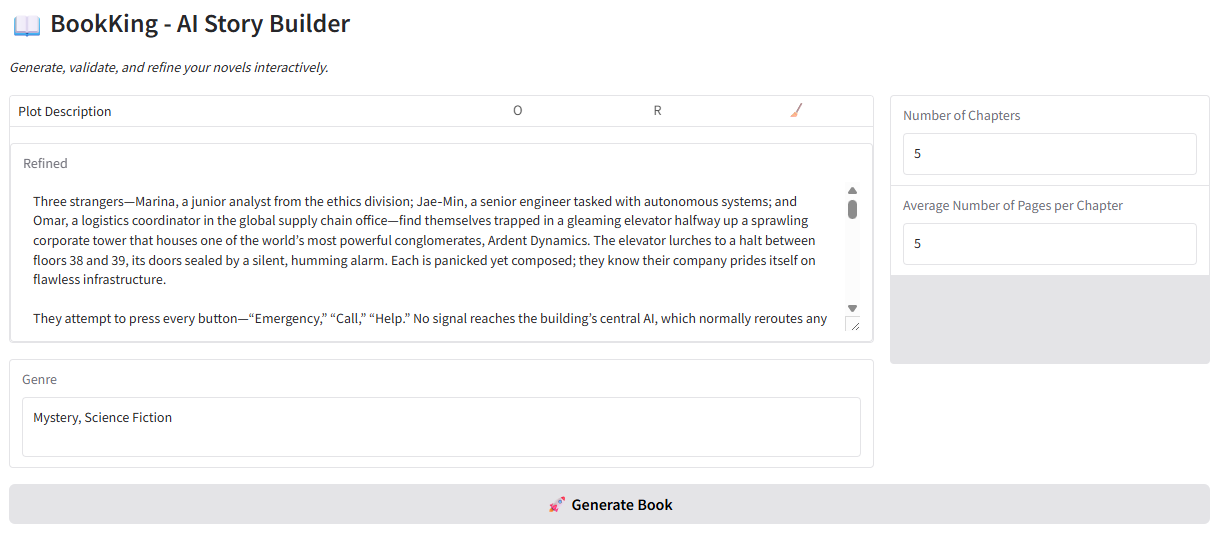
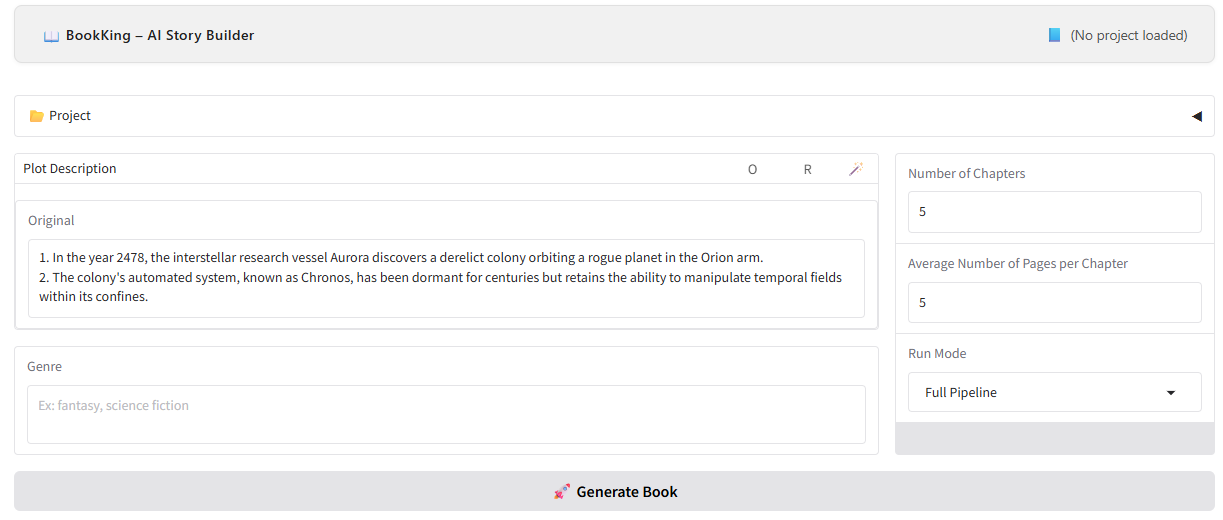
feat(ui): add new project reset functionality

diff --git a/ui/handlers.py b/ui/handlers.py
@@ -409,3 +409,28 @@ def delete_project(selected_name, current_status):
     projects = list_projects()
     new_value = projects[0] if projects else None
     return current_status + "\n" + ts_prefix(f"🗑 Deleted project “{selected_name}”."), gr.update(choices=projects, value=new_value)
+
+def new_project():
+    """
+    Resetează complet toate inputurile și outputurile – echivalent cu o sesiune nouă.
+    """
+    clear_stop()
+    clear_checkpoint()
+
+    return (
+        gr.update(value="", label="Original", interactive=True),   # plot_input
+        gr.update(value=""),                                       # genre_input
+        gr.update(value=5),                                        # num_chapters
+        gr.update(value=5),                                        # anpc_input
+        gr.update(value=""),                                       # expanded_output
+        gr.update(value=""),                                       # chapters_output
+        [],                                                        # chapters_state
+        gr.update(value=""),                                       # project_name
+        gr.update(choices=[], value=None),                         # chapter_selector
+        gr.update(value="", visible=False),                        # current_chapter_output
+        "_No chapters yet_",                                       # chapter_counter
+        gr.update(value=""),                                       # plot_state (original)
+        gr.update(value=""),                                       # refined_plot_state
+        gr.update(value="🪄"),                                     # refine_btn reset
+        current_status + "\n" + ts_prefix("🆕 New project started.")                       # status_output
+    )

diff --git a/ui/interface.py b/ui/interface.py
@@ -40,6 +40,7 @@ def create_interface(pipeline_fn, refine_fn):
                         interactive=True,
                     )
                 with gr.Column(scale=1, elem_classes=["project-buttons"], min_width=120):
+                    new_project_btn = gr.Button("🆕 New", size="sm")
                     save_project_btn = gr.Button("💾 Save", size="sm")
                     load_project_btn = gr.Button("📂 Load", size="sm")
                     delete_project_btn = gr.Button("❌ Delete", size="sm")
@@ -412,6 +413,28 @@ def create_interface(pipeline_fn, refine_fn):
             fn=H.delete_project,
             inputs=[project_dropdown, status_output],
             outputs=[status_output, project_dropdown],
+        )
+
+        new_project_btn.click(
+            fn=H.new_project,
+            inputs=[],
+            outputs=[
+                plot_input,
+                genre_input,
+                chapters_input,
+                anpc_input,
+                expanded_output,
+                chapters_output,
+                chapters_state,
+                project_name,
+                chapter_selector,
+                current_chapter_output,
+                chapter_counter,
+                plot_state,
+                refined_plot_state,
+                refine_btn,
+                status_output,
+            ],
         )
 
         # === Populate project list on startup ===
